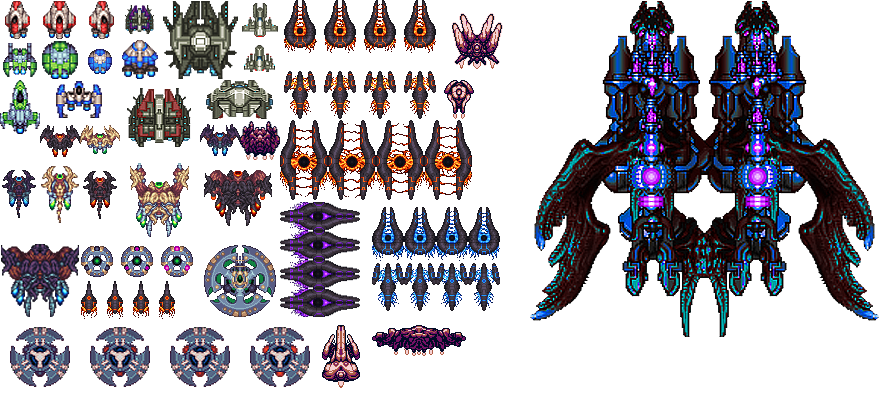
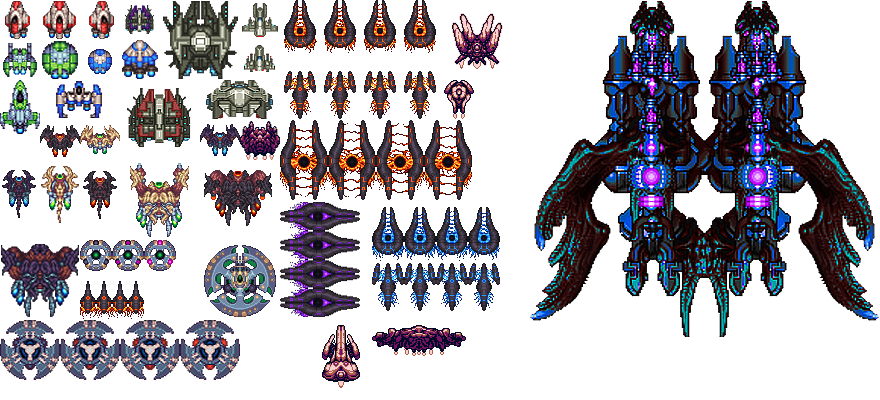
Fixed texture rect's, hitpoints are stored now in float variable

Changed region(s): [[0.0, 0.6, 0.3682, 0.99]]

diff --git a/Game/DataTable.cpp b/Game/DataTable.cpp
@@ -92,40 +92,40 @@ std::vector<SpaceshipTextureData> initializeSpaceshipTextureData()
     data[2].textureRect = sf::IntRect(40, 40, 40, 40);
 
     data[3].texture = Textures::Spaceships; // HumanShipGreen3
-    data[3].textureRect = sf::IntRect(0, 80, 40, 60);
+    data[3].textureRect = sf::IntRect(0, 80, 40, 55);
 
     data[4].texture = Textures::Spaceships; // HumanShipBlue1
-    data[4].textureRect = sf::IntRect(80, 40, 40, 40);
+    data[4].textureRect = sf::IntRect(88, 49, 24, 25);
 
     data[5].texture = Textures::Spaceships; // HumanShipBlue2
     data[5].textureRect = sf::IntRect(120, 40, 40, 40);
 
     data[6].texture = Textures::Spaceships; // HumanShipBlue3
-    data[6].textureRect = sf::IntRect(40, 80, 80, 40);
+    data[6].textureRect = sf::IntRect(56, 80, 47, 40);
 
     data[7].texture = Textures::Spaceships; // BiomechLight1
-    data[7].textureRect = sf::IntRect(80, 120, 40, 40);
+    data[7].textureRect = sf::IntRect(80, 125, 40, 29);
 
     data[8].texture = Textures::Spaceships; // BiomechLight2
-    data[8].textureRect = sf::IntRect(40, 160, 40, 70);
+    data[8].textureRect = sf::IntRect(40, 166, 40, 60);
 
     data[9].texture = Textures::Spaceships; // BiomechLight3
-    data[9].textureRect = sf::IntRect(120, 160, 80, 80);
+    data[9].textureRect = sf::IntRect(130, 160, 60, 80);
 
     data[10].texture = Textures::Spaceships; // BiomechRed1
-    data[10].textureRect = sf::IntRect(40, 120, 40, 40);
+    data[10].textureRect = sf::IntRect(40, 125, 40, 32);
 
     data[11].texture = Textures::Spaceships; // BiomechRed2
-    data[11].textureRect = sf::IntRect(80, 160, 40, 70);
+    data[11].textureRect = sf::IntRect(80, 170, 40, 51);
 
     data[12].texture = Textures::Spaceships; // BiomechRed3
     data[12].textureRect = sf::IntRect(204, 170, 68, 56);
 
     data[13].texture = Textures::Spaceships; // BiomechDark1
-    data[13].textureRect = sf::IntRect(200, 120, 40, 40);
+    data[13].textureRect = sf::IntRect(200, 124, 40, 31);
 
     data[14].texture = Textures::Spaceships; // BiomechDark2
-    data[14].textureRect = sf::IntRect(0, 160, 40, 70);
+    data[14].textureRect = sf::IntRect(0, 170, 40, 48);
 
     data[15].texture = Textures::Spaceships; // BiomechDark3
     data[15].textureRect = sf::IntRect(0, 240, 80, 80);
@@ -158,13 +158,13 @@ std::vector<SpaceshipTextureData> initializeSpaceshipTextureData()
     data[24].textureRect = sf::IntRect(320, 320, 40, 80);
 
     data[25].texture = Textures::Spaceships; // PurpleShipWide
-    data[25].textureRect = sf::IntRect(360, 320, 120, 40);
+    data[25].textureRect = sf::IntRect(372, 320, 94, 40);
 
     data[26].texture = Textures::Spaceships; // PurpleShipSmall
     data[26].textureRect = sf::IntRect(240, 120, 40, 40);
 
     data[27].texture = Textures::Spaceships; // Boss
-    data[27].textureRect = sf::IntRect(520, 0, 360, 360);
+    data[27].textureRect = sf::IntRect(530, 0, 350, 360);
 
     return data;
 }
@@ -391,7 +391,7 @@ std::vector<AnimationData> initializeAnimationData()
     data[Animation::VoidRedSpaceship1].rows = 1;
     data[Animation::VoidRedSpaceship1].framesPerRow = 4;
     data[Animation::VoidRedSpaceship1].frames = 4;
-    data[Animation::VoidRedSpaceship1].frameSize = sf::Vector2i(25, 40);
+    data[Animation::VoidRedSpaceship1].frameSize = sf::Vector2i(16, 40);
     data[Animation::VoidRedSpaceship1].spriteSheet = Textures::Spaceships;
 
     data[Animation::VoidRedSpaceship2].beginning = sf::Vector2i(280, 0);
@@ -419,14 +419,14 @@ std::vector<AnimationData> initializeAnimationData()
     data[Animation::SaucerSmallSpaceship].rows = 1;
     data[Animation::SaucerSmallSpaceship].framesPerRow = 3;
     data[Animation::SaucerSmallSpaceship].frames = 3;
-    data[Animation::SaucerSmallSpaceship].frameSize = sf::Vector2i(40, 40);
+    data[Animation::SaucerSmallSpaceship].frameSize = sf::Vector2i(32, 31);
     data[Animation::SaucerSmallSpaceship].spriteSheet = Textures::Spaceships;
 
     data[Animation::SaucerMediumSpaceship].beginning = sf::Vector2i(0, 320);
     data[Animation::SaucerMediumSpaceship].rows = 1;
     data[Animation::SaucerMediumSpaceship].framesPerRow = 4;
     data[Animation::SaucerMediumSpaceship].frames = 4;
-    data[Animation::SaucerMediumSpaceship].frameSize = sf::Vector2i(80, 80);
+    data[Animation::SaucerMediumSpaceship].frameSize = sf::Vector2i(60, 60);
     data[Animation::SaucerMediumSpaceship].spriteSheet = Textures::Spaceships;
 
     return data;

diff --git a/Game/Entities/Entity.hpp b/Game/Entities/Entity.hpp
@@ -12,18 +12,18 @@ class Entity : public SceneNode
     public:
         using ListIterator = std::list<Entity*>::iterator;
 
-        explicit                Entity(int hitpoints, bool isCollidable, World&);
+        explicit                Entity(float hitpoints, bool isCollidable, World&);
         virtual                 ~Entity();
         Entity&                 operator=(const Entity& other);
-        int                     getHitpoints() const;
-        void                    setHitpoints(int hitpoints);
+        float                   getHitpoints() const;
+        void                    setHitpoints(float hitpoints);
         sf::Vector2f            getVelocity() const;
         void                    setVelocity(sf::Vector2f);
         void                    setVelocity(float x, float y);
         void                    accelerate(sf::Vector2f);
         void                    accelerate(float x, float y);
-        void                    damage(int hitpoints);
-        void                    repair(int hitpoints);
+        void                    damage(float hitpoints);
+        void                    repair(float hitpoints);
         void                    destroy();
         World&                  getWorld() const;
         virtual sf::FloatRect   getLocalBounds() const;
@@ -36,7 +36,7 @@ class Entity : public SceneNode
 
     private:
         sf::Vector2f            mVelocity;
-        int                     mHitpoints;
+        float                   mHitpoints;
         World&                  mWorld;
         bool                    mIsCollidable;
 };

diff --git a/Game/Entities/Entity.cpp b/Game/Entities/Entity.cpp
@@ -1,7 +1,7 @@
 #include "Entity.hpp"
 #include "../World.hpp"
 
-Entity::Entity(int hitpoints, bool isCollidable, World& world)
+Entity::Entity(float hitpoints, bool isCollidable, World& world)
     : mHitpoints(hitpoints),
       mWorld(world),
       mIsCollidable(isCollidable)
@@ -23,12 +23,12 @@ Entity& Entity::operator=(const Entity& other)
     return *this;
 }
 
-int Entity::getHitpoints() const
+float Entity::getHitpoints() const
 {
     return mHitpoints;
 }
 
-void Entity::setHitpoints(int hitpoints)
+void Entity::setHitpoints(float hitpoints)
 {
     mHitpoints = hitpoints;
 }
@@ -64,12 +64,12 @@ void Entity::updateCurrent(sf::Time dt, CommandQueue& commands)
     move(mVelocity * dt.asSeconds());
 }
 
-void Entity::damage(int hitpoints)
+void Entity::damage(float hitpoints)
 {
     mHitpoints -= hitpoints;
 }
 
-void Entity::repair(int hitpoints)
+void Entity::repair(float hitpoints)
 {
     mHitpoints += hitpoints;
 }

diff --git a/Game/DataTable.hpp b/Game/DataTable.hpp
@@ -38,8 +38,8 @@ struct SpaceshipTextureData
 
 struct ProjectileData
 {
-    int             damage;
-    int             hitpoints = 1;
+    float           damage;
+    float           hitpoints = 1.f;
     Textures::ID    texture;
     sf::IntRect     textureRect;
 };
